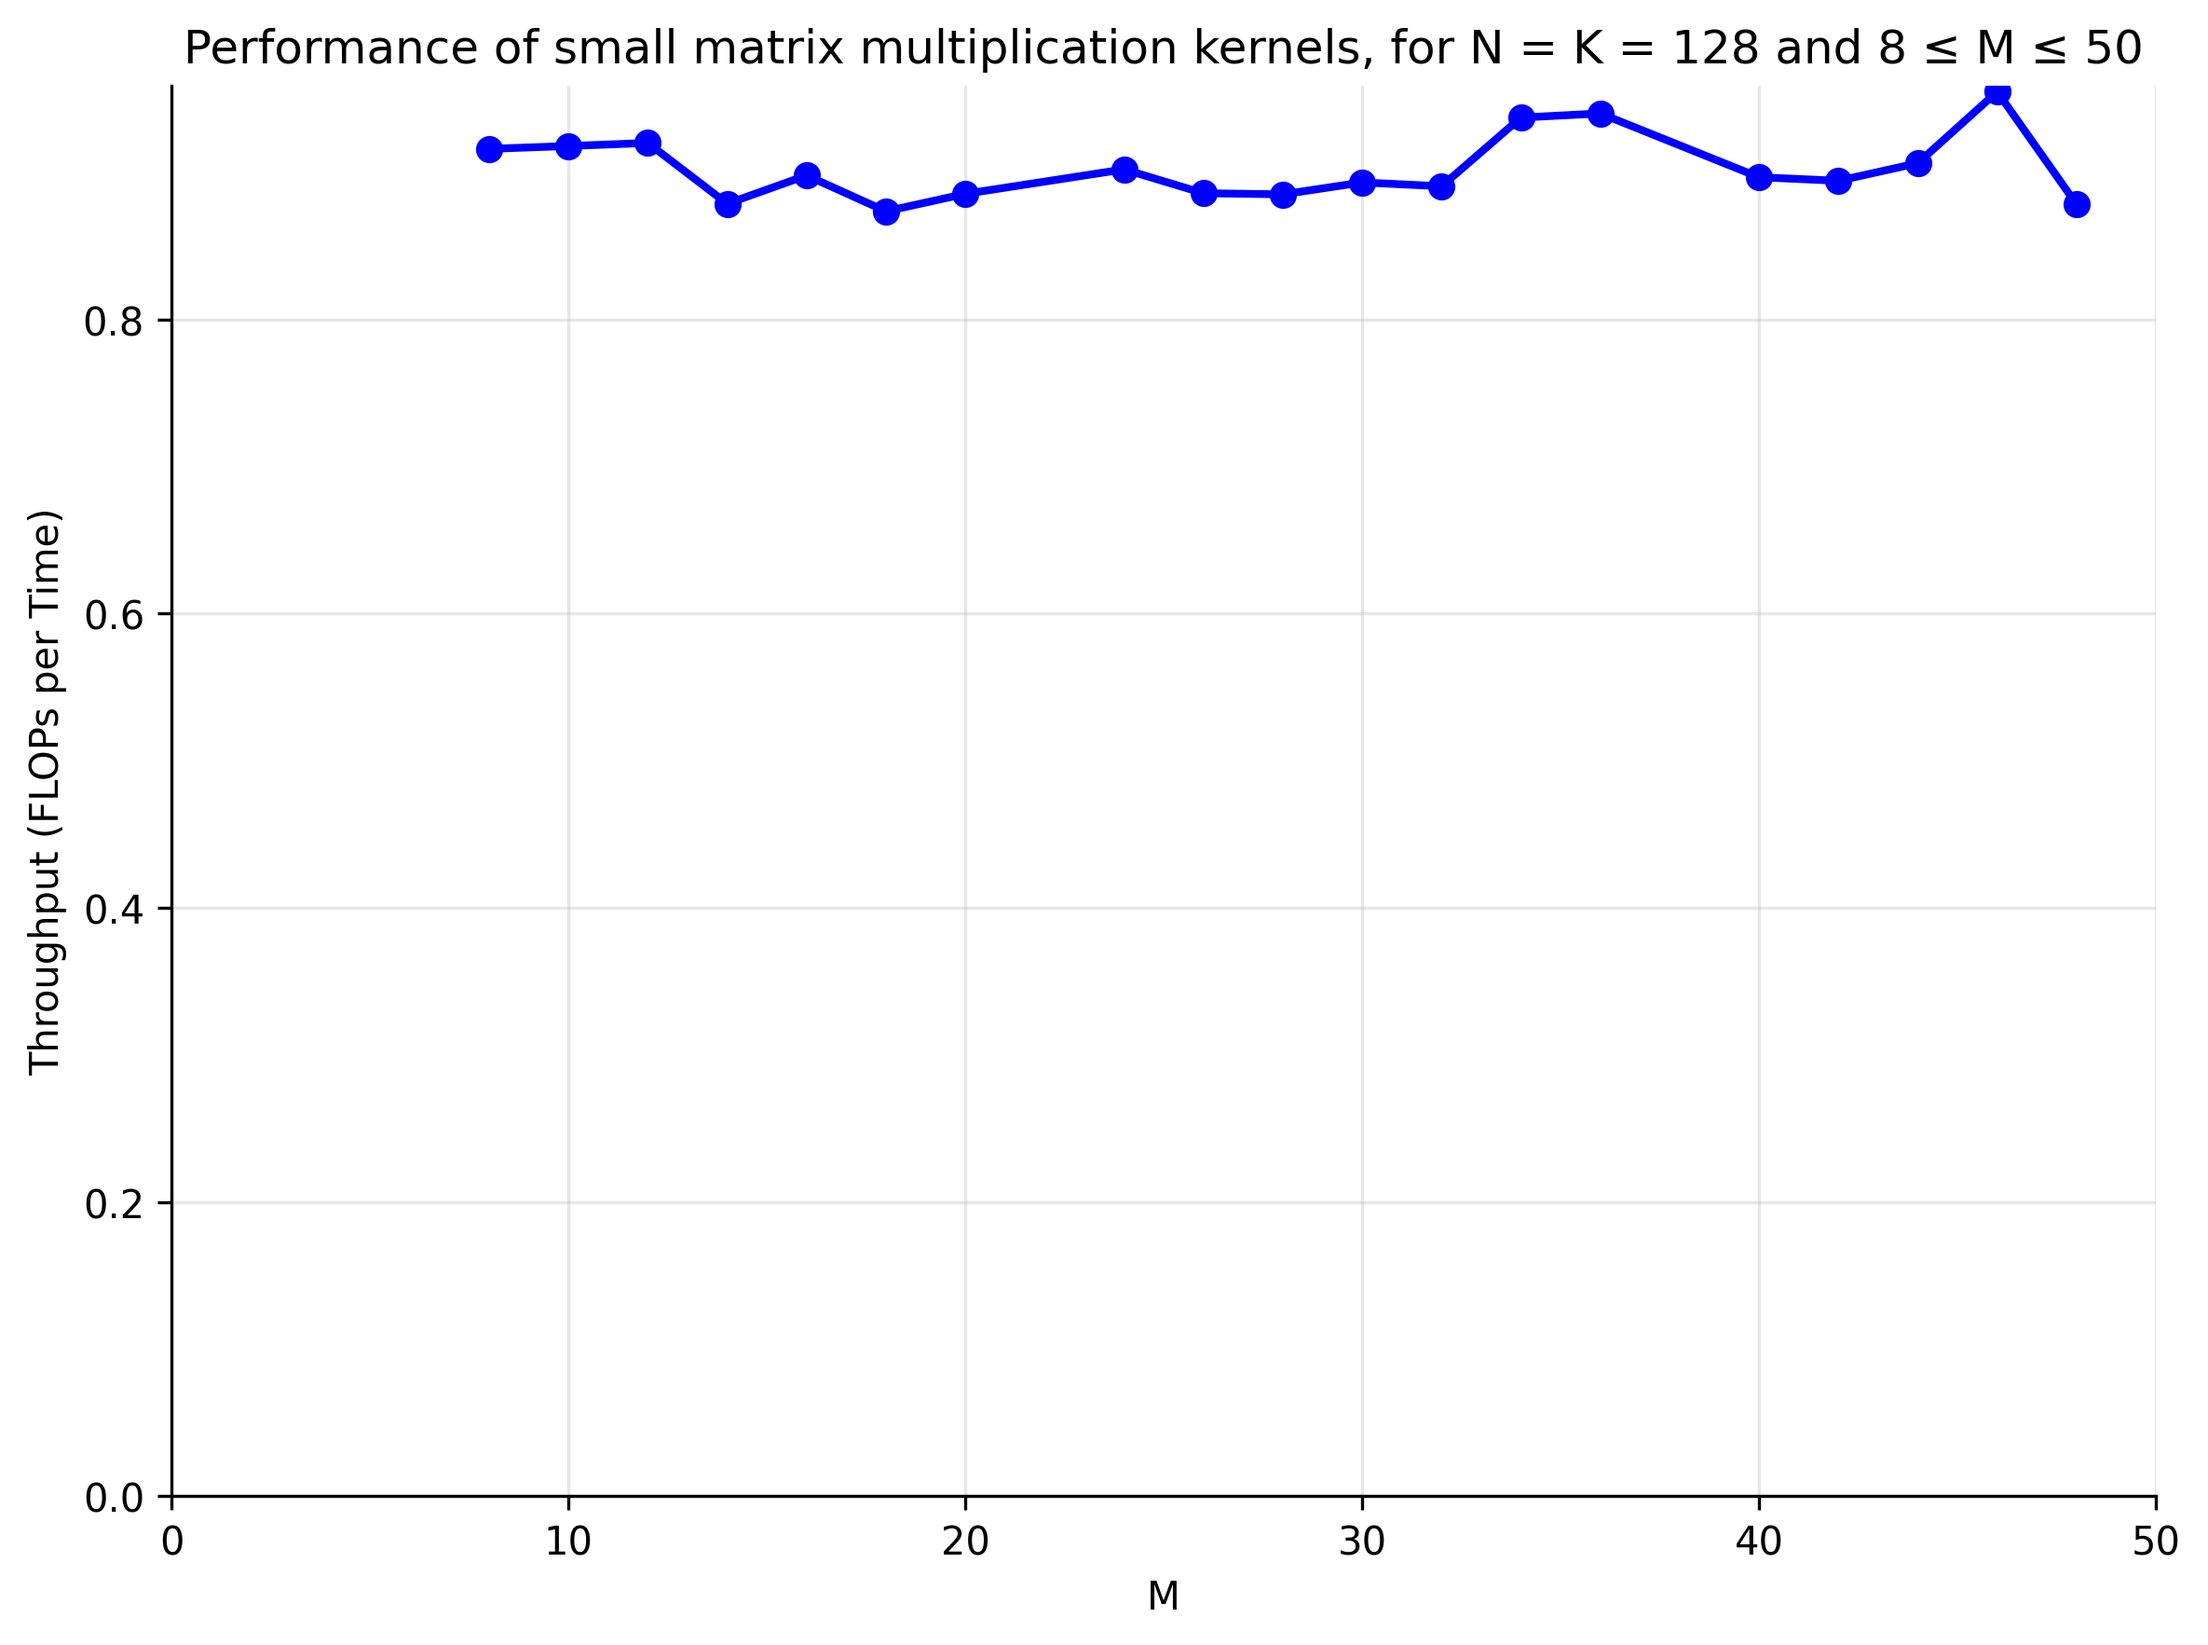
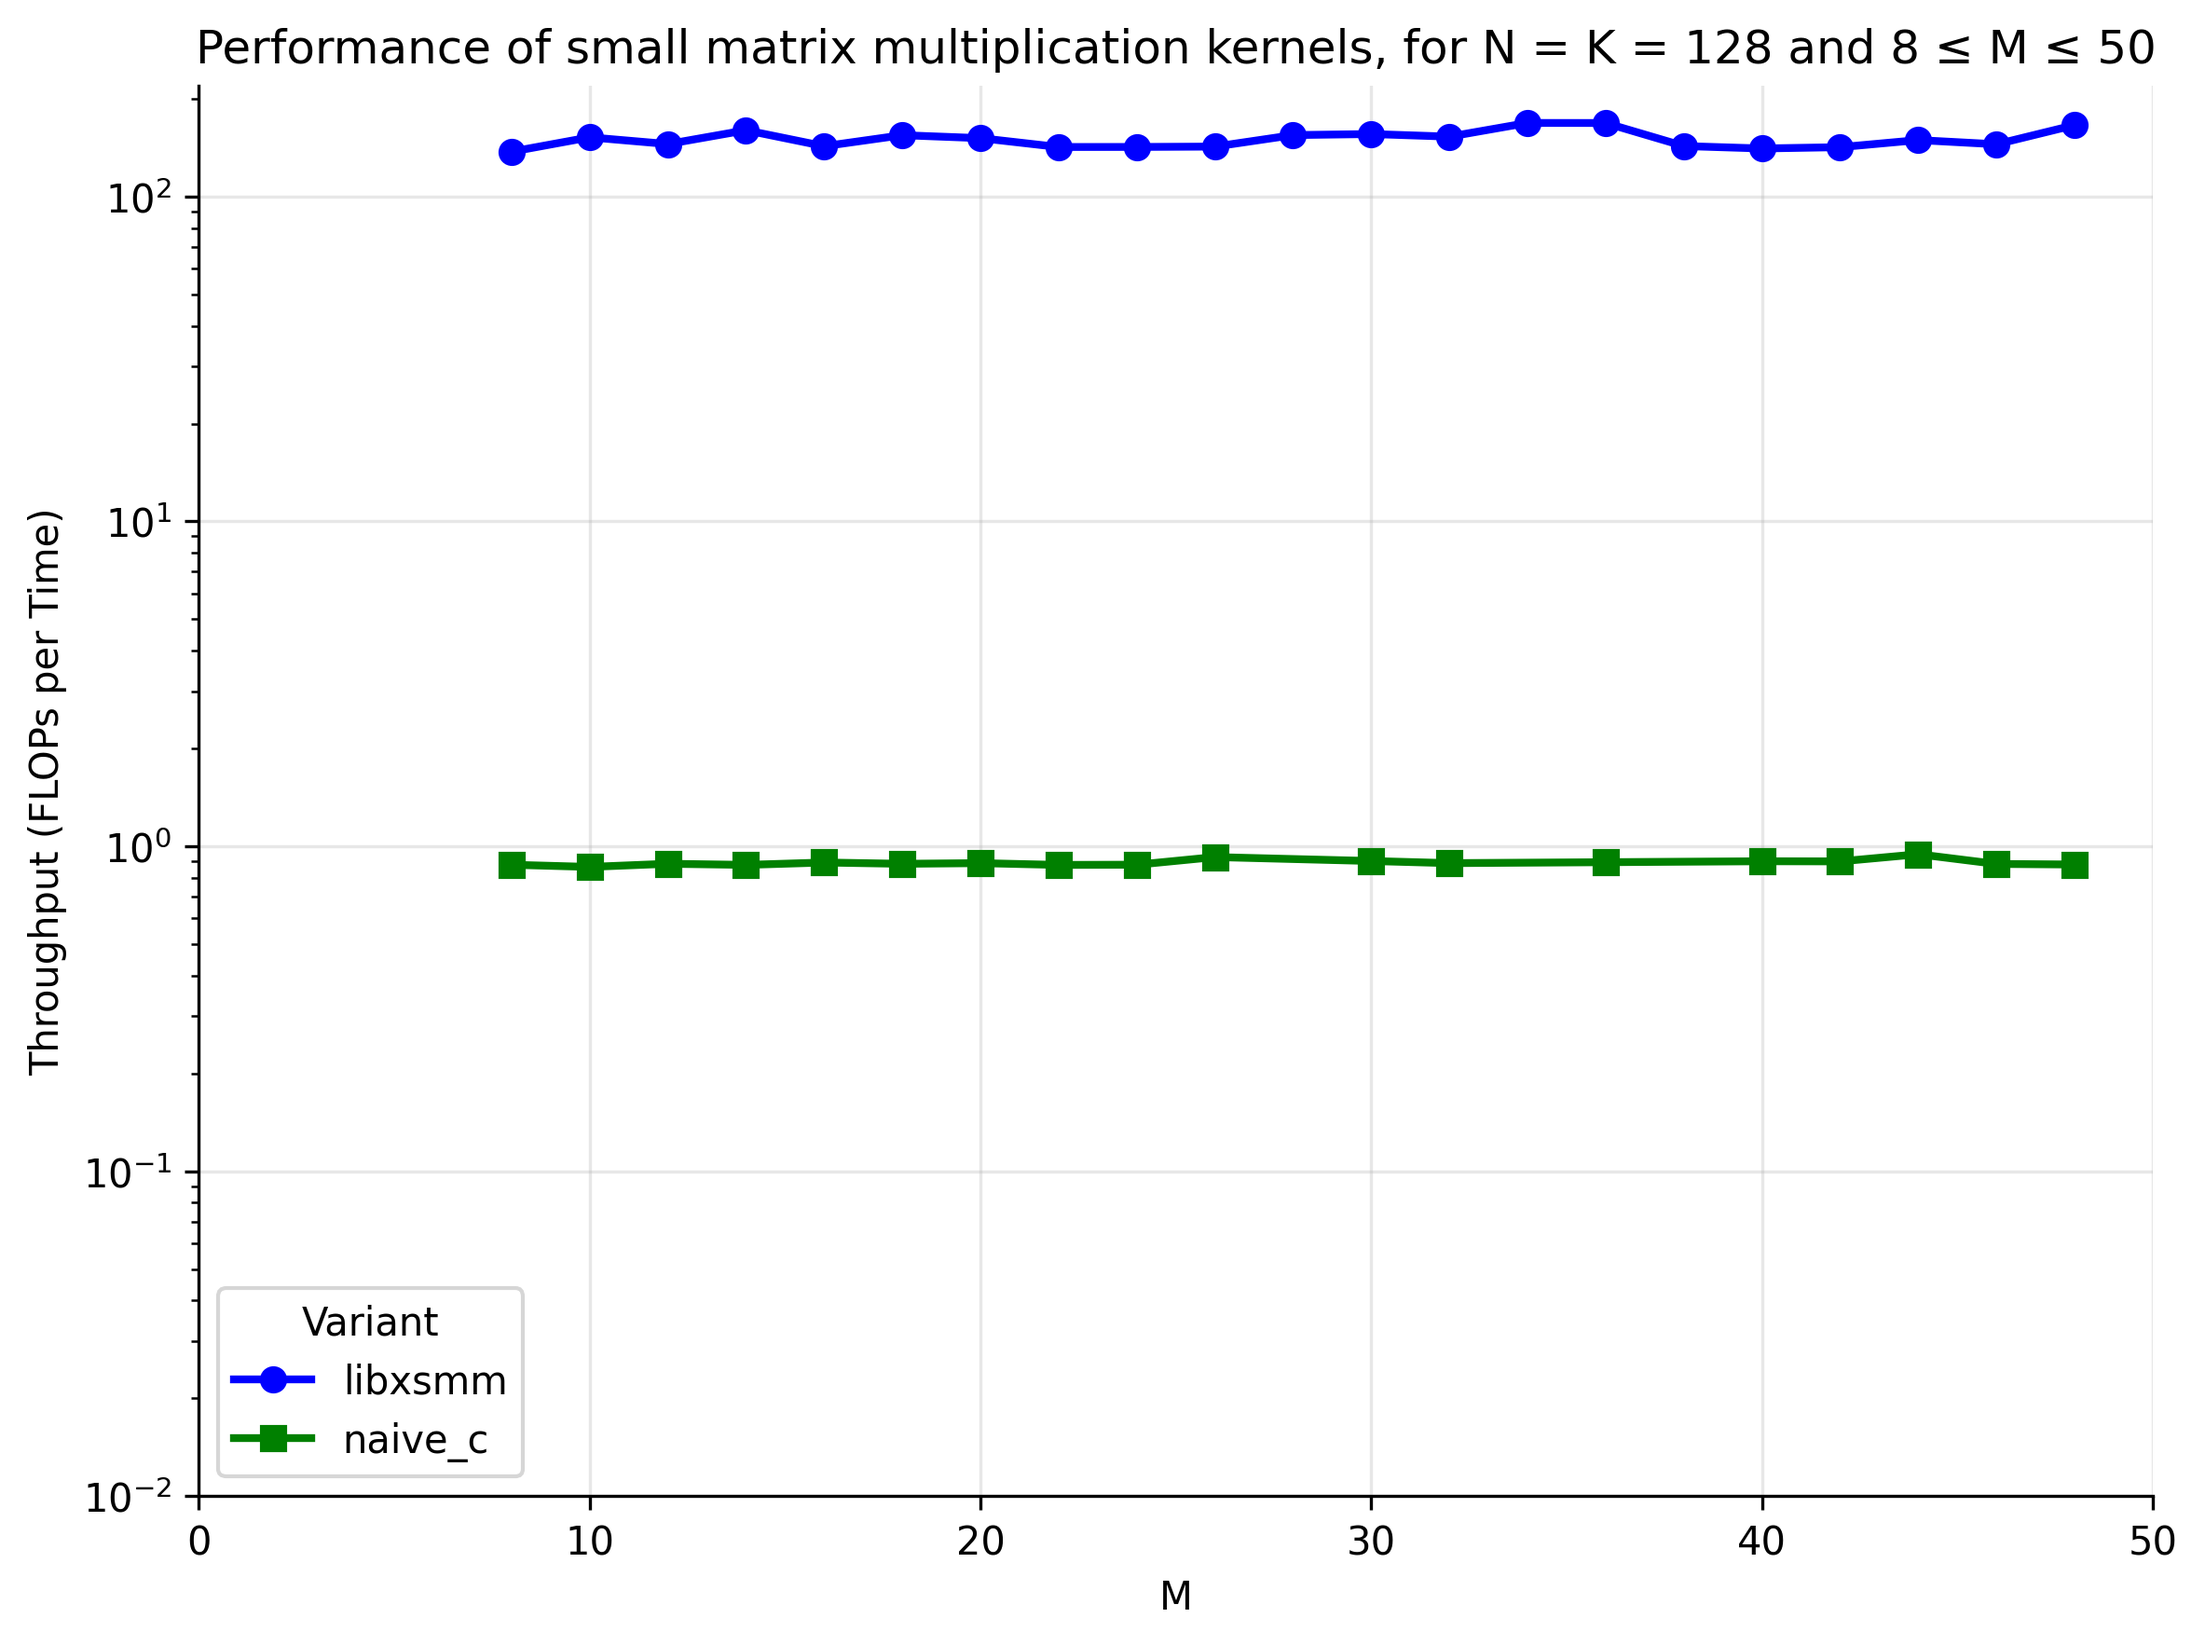
generate kernel with libxsmm (#72)

diff --git a/src/plot_ttile.py b/src/plot_ttile.py
@@ -7,18 +7,37 @@ from pathlib import Path
 
 
 def plot_flops_per_time(df: pd.DataFrame, output_file: Path | None = None):
-    """Plot FLOPs per time with various visualizations."""
+    """Plot FLOPs per time for each kernel variant."""
 
     # Filter out invalid time values (negative or zero)
     valid_data = df[df["time"] > 0].copy()
-    # Note: invalid_data contains data points with negative or zero time values
-    # invalid_data = df[df["time"] <= 0]
 
-    # Calculate FLOPs per time (throughput) and plot only throughput vs M
+    # Calculate FLOPs per time (throughput)
     valid_data["throughput"] = valid_data["flops"] / valid_data["time"]
 
     fig, ax = plt.subplots(figsize=(8, 6))
-    ax.plot(valid_data["M"], valid_data["throughput"], "bo-", linewidth=2, markersize=6)
+
+    # Assign a color and marker for each variant
+    import itertools
+
+    colors = itertools.cycle(["b", "g", "r", "c", "m", "y", "k"])
+    markers = itertools.cycle(["o", "s", "D", "^", "v", ">", "<", "p", "*", "h", "x"])
+
+    for (variant, group), color, marker in zip(
+        valid_data.groupby("variant"), colors, markers
+    ):
+        assert isinstance(group, pd.DataFrame)
+        group = group.sort_values("M")
+        ax.plot(
+            group["M"],
+            group["throughput"],
+            label=variant,
+            color=color,
+            marker=marker,
+            linewidth=2,
+            markersize=6,
+        )
+
     ax.set_xlabel("M")
     ax.set_ylabel("Throughput (FLOPs per Time)")
     ax.set_title(
@@ -26,9 +45,11 @@ def plot_flops_per_time(df: pd.DataFrame, output_file: Path | None = None):
     )
     ax.grid(True, alpha=0.3)
     ax.set_xlim(0, valid_data["M"].max() + 2)
-    ax.set_ylim(bottom=0)
+    ax.set_yscale("log")
+    ax.set_ylim(bottom=1e-2)  # Avoid log(0); adjust as needed for your data
     ax.spines["top"].set_visible(False)
     ax.spines["right"].set_visible(False)
+    ax.legend(title="Variant")
     plt.tight_layout()
 
     if output_file:
